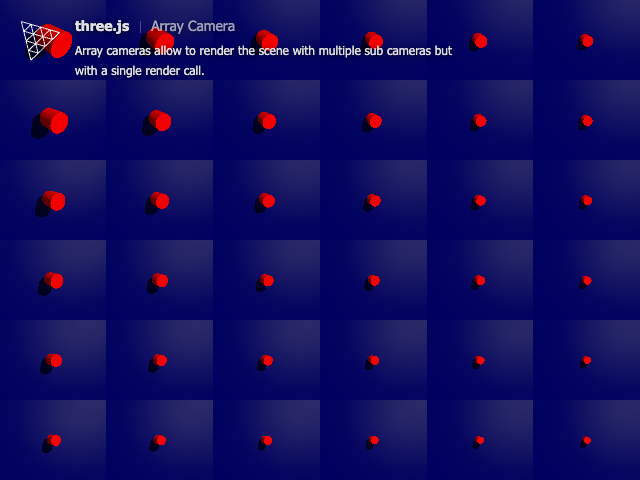
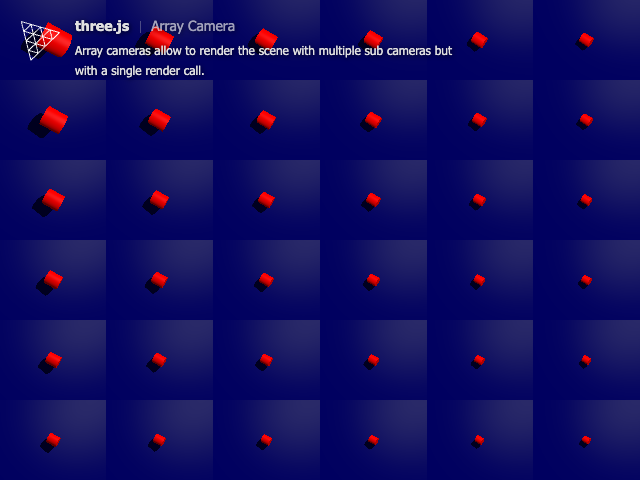
feat(precompile-marker): detect ArrayCamera at capture time for per-cell WGSL
Intercepts renderer.render() via setDevRenderer to auto-detect ArrayCamera
instances; captureMaterialInDev now re-uses the ArrayCamera so compiled WGSL
emits cameraViewMatrices.value[varyings.v_cameraIndex] instead of a scalar
uniform, enabling distinct per-cell views in webgpu_camera_array.

diff --git a/packages/runtime/src/precompile-marker.js b/packages/runtime/src/precompile-marker.js
@@ -37,6 +37,13 @@ let extractor = null;
 // `hashMaterialSync` import above (node:crypto-free, browser-safe).
 let codegen = null;   // emitUpdaterSource — used to check for unknown kinds at capture time.
 
+// Last ArrayCamera seen in a devRenderer.render() call. Used to auto-detect
+// ArrayCamera captures: when the user renders with an ArrayCamera the
+// synthetic capture scene must also use one, otherwise three.js's Camera.js
+// nodes emit the scalar `cameraViewMatrix` uniform path instead of the
+// per-element `cameraViewMatrices[cameraIndex]` path.
+let lastSeenArrayCamera = null;
+
 const inflight = new Set();   // names currently being captured (suppresses dup POSTs)
 const sessionDone = new Set();   // names captured this session (suppresses needless re-POST)
 
@@ -116,6 +123,27 @@ export function setDevRenderer( renderer ) {
 	devRenderer = renderer || null;
 	if ( renderer && renderer.inspector ) autoAttachInspectorPanel( renderer.inspector );
 
+	// Intercept renderer.render() to track when an ArrayCamera is in use.
+	// This lets the synthetic capture scene mirror the array-camera shader
+	// path without requiring the harness to explicitly tag each material.
+	// We only wrap once per renderer instance (guard via __tslpRenderWrapped).
+	if ( renderer && typeof renderer.render === 'function' && ! renderer.__tslpRenderWrapped ) {
+
+		renderer.__tslpRenderWrapped = true;
+		const _originalRender = renderer.render.bind( renderer );
+		renderer.render = function ( scene, camera, ...rest ) {
+
+			if ( camera && camera.isArrayCamera && camera.cameras && camera.cameras.length > 0 ) {
+
+				lastSeenArrayCamera = camera;
+
+			}
+			return _originalRender( scene, camera, ...rest );
+
+		};
+
+	}
+
 }
 
 let _inspectorAttachTried = false;
@@ -179,9 +207,46 @@ async function captureMaterialInDev( material, name ) {
 		// that read `frame.object` fields see the same shape they saw in the app.
 		const { Scene, Mesh, BoxGeometry, PerspectiveCamera, Color, REVISION } = threeModule;
 		const scene = new Scene();
-		const camera = new PerspectiveCamera( 45, 1, 0.1, 100 );
-		camera.position.set( 0, 0, 3 );
-		camera.lookAt( 0, 0, 0 );
+
+		// Determine the capture camera. Priority order:
+		//   1. material.__tslpArrayCamera — explicit hint set by user or harness
+		//   2. lastSeenArrayCamera — auto-detected from the last devRenderer.render() call
+		//   3. Fallback: plain PerspectiveCamera (pre-existing behaviour)
+		//
+		// Using an ArrayCamera with at least one sub-camera causes three.js's
+		// Camera.js TSL nodes to emit the `cameraViewMatrices[cameraIndex]`
+		// array-uniform path instead of the scalar `cameraViewMatrix` path.
+		// Without this, all 36 cells of webgpu_camera_array render the same
+		// view because the precompiled WGSL bakes the scalar path.
+		let sourceArrayCamera = null;
+		if ( material.__tslpArrayCamera && material.__tslpArrayCamera.isArrayCamera ) {
+
+			sourceArrayCamera = material.__tslpArrayCamera;
+
+		} else if ( lastSeenArrayCamera ) {
+
+			sourceArrayCamera = lastSeenArrayCamera;
+
+		}
+
+		let camera;
+		if ( sourceArrayCamera ) {
+
+			// Clone the ArrayCamera shell so we don't mutate the live camera, but
+			// re-use the same sub-camera array (read-only during extraction).
+			const ArrayCamera = sourceArrayCamera.constructor;
+			camera = new ArrayCamera( sourceArrayCamera.cameras );
+			camera.position.copy( sourceArrayCamera.position );
+			camera.quaternion.copy( sourceArrayCamera.quaternion );
+			camera.updateMatrixWorld( true );
+
+		} else {
+
+			camera = new PerspectiveCamera( 45, 1, 0.1, 100 );
+			camera.position.set( 0, 0, 3 );
+			camera.lookAt( 0, 0, 0 );
+
+		}
 		const sourceObject = material.__tslpPrecompileObject || null;
 
 		// Inherit scene-level state that drives PBR shader binding
@@ -497,6 +562,7 @@ export function __resetForTests() {
 	devRenderer = null;
 	extractor = null;
 	codegen = null;
+	lastSeenArrayCamera = null;
 	logged.clear();
 	sessionDone.clear();
 	inflight.clear();
